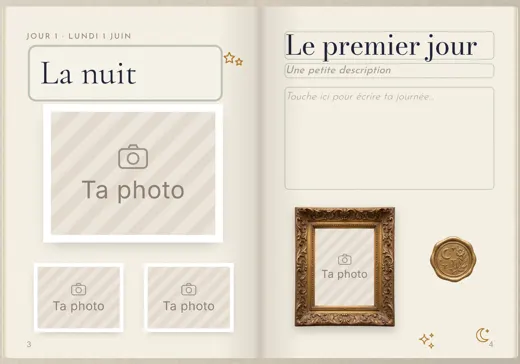
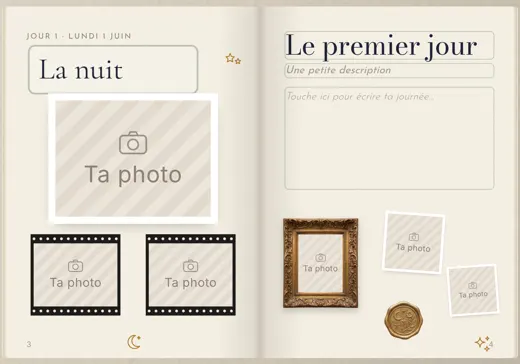
Modèles du carnet plus remplis : 12 modèles dont Mood board (9 photos) et Raisons de repartir, 4 gratuits
Claude-Session: https://claude.ai/code/session_01FgCiP2KnGwcrbVTvX2axgX

diff --git a/js/modeles.js b/js/modeles.js
@@ -17,71 +17,92 @@
   const tx = (sd, x, y, v, ph_, f, c, size = 17, w = 30, r = 0) => ({ k: 'x', v, ph: ph_, f, c, x: X(sd, x), y: Y(y), s: r1(size / 17), r, w, tpl: 1 });
 
   const MODELES = [
+    { k: 'moodboard', n: 'Mood board', pro: 0, paper: 'blanc', font: 'carnet', pal: ['#E8A9B8', '#20243A', '#FBF6EA'], el: () => [
+      tx('l', 52, 40, 'Mood board', 'Ton titre', 'carnet', '#20243A', 32, 18), dd('l', 34, 58, 'sparkles', 22, '#C26B7A'), dd('l', 268, 58, 'sparkles', 22, '#C26B7A'),
+      ...[[55, 128], [150, 128], [245, 128], [55, 222], [150, 222], [245, 222], [55, 316], [150, 316], [245, 316]].map(([x, y]) => ph('l', x, y, 84, 'carre', 'arrondi')),
+      dd('l', 150, 394, 'hearts', 28, '#C26B7A'), tp('l', 245, 84, W.rose, 46, 8),
+      ph('r', 58, 290, 82, 'portrait', 'arrondi'), ph('r', 150, 276, 82, 'carre', 'arrondi'), ph('r', 242, 290, 82, 'portrait', 'arrondi'),
+      ph('r', 150, 368, 82, 'carre', 'arrondi'), dd('r', 50, 388, 'heartf', 24, '#E8A9B8', -10), dd('r', 252, 390, 'stars', 26, '#20243A')] },
     { k: 'sauge', n: 'Sauge et crème', pro: 0, paper: 'quadrille', font: 'carnet', pal: ['#AFC3AC', '#3f5240', '#F3EBDD'], el: () => [
-      tx('l', 26, 46, 'Escapade', 'Ton titre', 'carnet', '#3f5240', 40, 17),
-      tp('l', 95, 102, W.sauge, 64, -4), ph('l', 95, 200, 128, 'portrait', 'arche'),
-      tp('l', 228, 160, W.jaune, 50, 6), ph('l', 228, 212, 78, 'carre', 'polaroid', 5),
-      lt('l', 205, 300, 'souvenirs', 'label', '#2E5E3E', -3),
-      dd('l', 42, 372, 'leaf', 40, '#6f8a6c', -12), dd('l', 258, 372, 'heart', 30, '#B8452C', 8),
-      tp('r', 150, 236, W.sauge, 70, -3), ph('r', 150, 305, 170, 'paysage', 'blanc', -1),
-      dd('r', 268, 392, 'sparkles', 30, '#B07A2A'), dd('r', 34, 392, 'hearts', 28, '#E8A9B8')] },
+      tx('l', 26, 46, 'Escapade', 'Ton titre', 'carnet', '#3f5240', 36, 16),
+      tp('l', 80, 112, W.sauge, 56, -4), ph('l', 80, 186, 108, 'portrait', 'arche'),
+      tp('l', 214, 106, W.jaune, 46, 6), ph('l', 214, 152, 78, 'carre', 'polaroid', 5),
+      ph('l', 222, 262, 72, 'carre', 'polaroid', -4), ph('l', 88, 312, 80, 'carre', 'blanc', -3),
+      lt('l', 210, 340, 'souvenirs', 'label', '#2E5E3E', -3),
+      dd('l', 36, 392, 'leaf', 32, '#6f8a6c', -12), dd('l', 160, 394, 'heart', 24, '#B8452C', 8), dd('l', 268, 390, 'sparkles', 26, '#B07A2A'),
+      tp('r', 62, 250, W.sauge, 46, -6), ph('r', 62, 304, 82, 'carre', 'polaroid', -5),
+      ph('r', 150, 296, 76, 'portrait', 'blanc'), tp('r', 238, 250, W.jaune, 46, 6), ph('r', 238, 304, 82, 'carre', 'polaroid', 5),
+      dd('r', 150, 398, 'stars', 26, '#6f8a6c'), dd('r', 40, 396, 'hearts', 22, '#E8A9B8')] },
     { k: 'bleu', n: 'Bleu Méditerranée', pro: 0, paper: 'blanc', font: 'machine', pal: ['#A9C2DA', '#3C6E8F', '#FBF6EA'], el: () => [
-      lt('l', 150, 66, 'VOYAGE', 'tile', '#20243A'),
-      tp('l', 150, 92, W.bleu, 70, -2), ph('l', 150, 170, 215, 'paysage', 'blanc', 1),
-      ph('l', 82, 322, 105, 'carre', 'blanc', -3), ph('l', 218, 326, 105, 'carre', 'blanc', 3),
-      dd('l', 150, 395, 'stars', 30, '#3C6E8F'),
-      ph('r', 82, 312, 105, 'carre', 'rond'), tp('r', 215, 240, W.sauge, 55, 6), ph('r', 215, 305, 92, 'portrait', 'polaroid', 6),
-      dd('r', 34, 396, 'sparkles', 28, '#E3A51A'), dd('r', 268, 396, 'star', 26, '#3C6E8F')] },
+      lt('l', 150, 62, 'VOYAGE', 'tile', '#20243A'),
+      tp('l', 150, 98, W.bleu, 64, -2), ph('l', 150, 160, 196, 'paysage', 'blanc', 1),
+      ph('l', 58, 288, 76, 'carre', 'blanc', -4), ph('l', 150, 296, 76, 'carre', 'blanc', 2), ph('l', 242, 288, 76, 'carre', 'blanc', 4),
+      lt('l', 150, 372, 'été', 'label', '#3C6E8F', -2), dd('l', 40, 392, 'stars', 26, '#3C6E8F'), dd('l', 262, 392, 'sparkles', 26, '#E3A51A'),
+      ph('r', 64, 300, 86, 'carre', 'rond'), tp('r', 160, 240, W.sauge, 46, 5), ph('r', 160, 290, 80, 'portrait', 'polaroid', 4),
+      ph('r', 248, 322, 66, 'carre', 'blanc', -4), dd('r', 268, 396, 'star', 24, '#3C6E8F'), dd('r', 40, 396, 'heart', 22, '#3C6E8F')] },
     { k: 'ete', n: 'Été pastel', pro: 0, paper: 'blanc', font: 'carnet', pal: ['#A9C2DA', '#F3C979', '#A9C4AF'], el: () => [
-      tx('l', 74, 44, 'Summer', 'Ton titre', 'carnet', '#2f4a66', 40, 16),
-      tp('l', 150, 118, W.jaune, 66, -3), ph('l', 150, 200, 205, 'paysage', 'blanc', -1),
-      ph('l', 150, 342, 92, 'carre', 'rond'), dd('l', 46, 350, 'sparkles', 34, '#E3A51A'), dd('l', 256, 330, 'heartf', 26, '#E8A9B8', 10),
-      tp('r', 85, 238, W.sauge, 55, -5), ph('r', 85, 305, 96, 'portrait', 'polaroid', -4),
-      tp('r', 215, 238, W.bleu, 55, 5), ph('r', 215, 305, 96, 'portrait', 'polaroid', 4),
-      dd('r', 150, 400, 'stars', 26, '#9EC3E6')] },
+      tx('l', 74, 44, 'Summer', 'Ton titre', 'carnet', '#2f4a66', 38, 16),
+      tp('l', 150, 116, W.jaune, 62, -3), ph('l', 150, 190, 190, 'paysage', 'blanc', -1),
+      ph('l', 64, 330, 78, 'carre', 'rond'), ph('l', 158, 334, 74, 'carre', 'polaroid', -4), ph('l', 246, 326, 74, 'carre', 'polaroid', 5),
+      dd('l', 40, 96, 'sparkles', 26, '#E3A51A'), dd('l', 262, 92, 'heartf', 22, '#E8A9B8', 10),
+      tp('r', 62, 246, W.sauge, 46, -5), ph('r', 62, 304, 80, 'portrait', 'polaroid', -5),
+      tp('r', 150, 236, W.bleu, 46, 3), ph('r', 150, 292, 80, 'portrait', 'polaroid', 2),
+      tp('r', 238, 246, W.jaune, 46, 5), ph('r', 238, 304, 80, 'portrait', 'polaroid', 5), dd('r', 150, 402, 'stars', 24, '#9EC3E6')] },
+    { k: 'raisons', n: 'Raisons de repartir', pro: 1, paper: 'blanc', font: 'oldmoney', pal: ['#E8A9B8', '#C26B7A', '#ffffff'], el: () => [
+      tx('l', 24, 40, 'Quatre raisons', 'Ton titre', 'oldmoney', '#2a2320', 28, 20), tx('l', 60, 78, '… de repartir', '', 'romantique', '#C26B7A', 22, 26),
+      ...[0, 1, 2, 3].flatMap(i => { const y = 150 + i * 66; return [tx('l', 20, y - 26, String(i + 1), '', 'oldmoney', '#E8A9B8', 38, 3), tx('l', 62, y - 16, '', 'ta raison…', 'carnet', '#5a4a52', 15, 20), ph('l', i % 2 ? 216 : 248, y, 62, 'carre', 'polaroid', i % 2 ? -6 : 6)]; }),
+      st('l', 34, 400, 'fl-fleur-rose', 44, -10), st('l', 150, 402, 'fl-pivoine-rose', 46), st('l', 270, 404, 'fl-cerisier', 46, 14),
+      st('r', 268, 236, 'nd2-vichy-rose', 52, 12),
+      ph('r', 58, 272, 80, 'carre', 'arrondi'), ph('r', 150, 262, 80, 'portrait', 'arrondi'), ph('r', 242, 276, 72, 'carre', 'arrondi'),
+      ph('r', 96, 362, 116, 'paysage', 'arrondi'), ph('r', 236, 360, 70, 'carre', 'arrondi'), st('r', 30, 404, 'fl-hibiscus-rouge', 46, -8)] },
     { k: 'rose', n: 'Rose poudré', pro: 1, paper: 'rose', font: 'romantique', pal: ['#E9BCC3', '#b05a6a', '#F8E7E5'], el: () => [
-      tx('l', 62, 42, 'Douceur', 'Ton titre', 'romantique', '#b05a6a', 40, 16),
-      ph('l', 150, 222, 150, 'o', 'coeur-rose'), st('l', 150, 126, 'nd-satin-rose', 70),
-      st('l', 58, 362, 'fl-cerisier', 90, -10), st('l', 246, 358, 'fl-pivoine-poudre', 78, 8),
-      tp('r', 82, 244, W.rose, 55, -6), ph('r', 82, 305, 92, 'carre', 'polaroid', -5),
-      tp('r', 216, 248, W.lilas, 55, 6), ph('r', 216, 308, 92, 'carre', 'polaroid', 5),
-      st('r', 58, 392, 'baiser-framboise', 52, -12), st('r', 248, 392, 'cire-rose-cygne', 50)] },
+      tx('l', 62, 42, 'Douceur', 'Ton titre', 'romantique', '#b05a6a', 38, 16),
+      st('l', 92, 118, 'nd-satin-rose', 58), ph('l', 92, 204, 128, 'o', 'coeur-rose'),
+      ph('l', 232, 150, 70, 'carre', 'polaroid', 6), ph('l', 228, 268, 70, 'carre', 'polaroid', -5),
+      st('l', 46, 352, 'fl-cerisier', 66, -10), st('l', 150, 372, 'fl-pivoine-poudre', 58, 6), st('l', 258, 370, 'baiser-framboise', 44, -12),
+      tp('r', 58, 246, W.rose, 44, -6), ph('r', 58, 296, 76, 'carre', 'arrondi', -3), tp('r', 150, 240, W.lilas, 44, 3), ph('r', 150, 290, 76, 'carre', 'arrondi'),
+      tp('r', 242, 246, W.rose, 44, 6), ph('r', 242, 296, 76, 'carre', 'arrondi', 3), st('r', 150, 388, 'cire-rose-cygne', 48), st('r', 50, 392, 'fl-gypsophile', 44), st('r', 254, 392, 'dentelle-rose-eventail', 80)] },
     { k: 'bordeaux', n: 'Bordeaux et or', pro: 1, paper: 'blanc', font: 'oldmoney', pal: ['#6E1F2A', '#C9A15A', '#ffffff'], el: () => [
-      ph('l', 150, 165, 190, 'o', 'bordeaux'),
-      tx('l', 52, 292, 'Souvenirs', 'Ton titre', 'oldmoney', '#6E1F2A', 40, 17),
-      tx('l', 60, 346, '', 'ton sous-titre ici', 'oldmoney', '#9a7a3a', 17, 30),
-      st('l', 150, 396, 'cire-bordeaux-rose', 46),
-      ph('r', 86, 300, 110, 'o', 'or-cadre', -3), ph('r', 216, 300, 104, 'o', 'or-ovale', 3),
-      st('r', 42, 388, 'nd2-bourgogne', 56, -8), st('r', 262, 386, 'fl-lys-bordeaux', 56, 10)] },
+      ph('l', 104, 168, 168, 'o', 'bordeaux'), ph('l', 246, 128, 72, 'o', 'or-ovale', 4), ph('l', 246, 236, 72, 'o', 'or-rond', -4),
+      tx('l', 30, 296, 'Souvenirs', 'Ton titre', 'oldmoney', '#6E1F2A', 36, 18),
+      tx('l', 36, 344, '', 'ton sous-titre ici', 'oldmoney', '#9a7a3a', 16, 30),
+      st('l', 262, 384, 'cire-bordeaux-rose', 44), st('l', 40, 392, 'nd2-bourgogne', 44, -10),
+      ph('r', 62, 300, 86, 'o', 'or-cadre', -3), ph('r', 152, 296, 82, 'o', 'argent', 2), ph('r', 242, 300, 84, 'o', 'coeur-or', 3),
+      st('r', 150, 396, 'dentelle-bordeaux-ornement', 120), st('r', 266, 390, 'fl-lys-bordeaux', 42, 10)] },
     { k: 'terracotta', n: 'Terracotta', pro: 1, paper: 'kraft', font: 'carnet', pal: ['#CDAF86', '#B8452C', '#7a3a1f'], el: () => [
-      tx('l', 26, 46, 'Évasion', 'Ton titre', 'carnet', '#7a3a1f', 40, 16),
-      ph('l', 95, 205, 130, 'portrait', 'arche'), tp('l', 232, 160, W.peche, 50, 6), ph('l', 232, 212, 78, 'carre', 'polaroid', 5),
-      st('l', 236, 300, 'nd2-vichy-terracotta', 68, -6), dd('l', 40, 372, 'sun', 36, '#B8452C'), st('l', 252, 388, 'empreinte-terracotta', 54, -10),
-      ph('r', 84, 305, 100, 'carre', 'festonne', -3), ph('r', 216, 305, 100, 'carre', 'festonne', 3),
-      lt('r', 84, 386, 'À voir', 'label', '#B8452C', -2), lt('r', 216, 386, 'À goûter', 'label', '#B07A2A', 2)] },
+      tx('l', 26, 46, 'Évasion', 'Ton titre', 'carnet', '#7a3a1f', 36, 16),
+      ph('l', 72, 180, 108, 'portrait', 'arche'), tp('l', 206, 104, W.peche, 46, 6), ph('l', 206, 150, 78, 'carre', 'polaroid', 5),
+      ph('l', 208, 262, 76, 'carre', 'festonne', -3), st('l', 96, 296, 'nd2-vichy-terracotta', 54, -6),
+      dd('l', 40, 384, 'sun', 30, '#B8452C'), st('l', 150, 388, 'empreinte-terracotta', 44, -10), dd('l', 258, 386, 'palm', 32, '#2E5E3E'),
+      ph('r', 58, 296, 78, 'carre', 'festonne', -3), ph('r', 150, 290, 78, 'carre', 'festonne', 2), ph('r', 242, 296, 78, 'carre', 'festonne', 3),
+      lt('r', 58, 370, 'À voir', 'label', '#B8452C', -2), lt('r', 150, 370, 'À goûter', 'label', '#B07A2A', 1), lt('r', 242, 370, 'À refaire', 'label', '#2E5E3E', 2)] },
     { k: 'lilas', n: 'Lilas', pro: 1, paper: 'quadrille', font: 'calligraphie', pal: ['#CDBDE3', '#4e3f68', '#C9B6E4'], el: () => [
-      lt('l', 76, 66, 'CITY', 'bead', '#4e3f68', -3), tx('l', 140, 46, 'break', 'Ton titre', 'romantique', '#6a5590', 34, 14),
-      tp('l', 100, 106, W.lilas, 60, -4), ph('l', 100, 196, 140, 'portrait', 'blanc', -2),
-      ph('l', 236, 214, 82, 'portrait', 'polaroid', 6), st('l', 236, 302, 'nd2-vichy-lilas', 68, -8), dd('l', 42, 372, 'butterfly', 34, '#8a73b8'),
-      ph('r', 84, 312, 100, 'carre', 'rond'), ph('r', 216, 310, 96, 'portrait', 'arche'),
-      st('r', 40, 388, 'fl-gypsophile', 56), st('r', 266, 388, 'fl-lys-rose', 58, 10)] },
+      lt('l', 76, 66, 'CITY', 'bead', '#4e3f68', -3), tx('l', 140, 46, 'break', 'Ton titre', 'romantique', '#6a5590', 32, 14),
+      tp('l', 86, 112, W.lilas, 52, -4), ph('l', 86, 196, 116, 'portrait', 'blanc', -2),
+      ph('l', 226, 160, 72, 'carre', 'polaroid', 6), ph('l', 226, 276, 72, 'carre', 'polaroid', -4),
+      st('l', 90, 312, 'nd2-vichy-lilas', 56, -8), dd('l', 40, 392, 'butterfly', 30, '#8a73b8'), st('l', 150, 396, 'fl-gypsophile', 44), st('l', 262, 390, 'fl-lys-rose', 46, 10),
+      ph('r', 58, 300, 78, 'carre', 'rond'), ph('r', 150, 296, 76, 'portrait', 'arche'), ph('r', 242, 300, 78, 'carre', 'rond'),
+      dd('r', 150, 400, 'sparkles', 24, '#b8a6d3'), dd('r', 40, 398, 'heart', 22, '#C26B7A')] },
     { k: 'nuit', n: 'Noir et or', pro: 1, paper: 'blanc', font: 'magazine', pal: ['#2C2B2E', '#C9A15A', '#ffffff'], el: () => [
-      tx('l', 26, 46, 'La nuit', 'Ton titre', 'magazine', '#20243A', 40, 16), dd('l', 268, 62, 'stars', 28, '#B07A2A'),
-      ph('l', 150, 198, 215, 'paysage', 'blanc'), ph('l', 86, 345, 104, 'paysage', 'blanc'), ph('l', 216, 345, 104, 'paysage', 'blanc'),
-      ph('r', 100, 308, 118, 'o', 'or-cadre'), st('r', 228, 300, 'cire-or-lune', 58),
-      dd('r', 262, 390, 'moon', 26, '#B07A2A'), dd('r', 196, 396, 'sparkles', 22, '#B07A2A')] },
+      tx('l', 26, 46, 'La nuit', 'Ton titre', 'magazine', '#20243A', 36, 16), dd('l', 268, 62, 'stars', 26, '#B07A2A'),
+      ph('l', 150, 180, 206, 'paysage', 'blanc'), ph('l', 82, 318, 112, 'paysage', 'film'), ph('l', 218, 318, 112, 'paysage', 'film'),
+      dd('l', 150, 398, 'moon', 24, '#B07A2A'),
+      ph('r', 72, 304, 96, 'o', 'or-cadre'), ph('r', 182, 280, 70, 'carre', 'blanc', 4), ph('r', 252, 336, 62, 'carre', 'blanc', -4),
+      st('r', 170, 372, 'cire-or-lune', 46), dd('r', 262, 400, 'sparkles', 22, '#B07A2A')] },
     { k: 'vintage', n: 'Vintage', pro: 1, paper: 'kraft', font: 'machine', pal: ['#CDAF86', '#3a2c1c', '#EFE4D0'], el: () => [
       lt('l', 150, 62, 'CARNET DE ROUTE', 'label', '#20243A'),
-      ph('l', 82, 150, 105, 'portrait', 'timbre', -4), ph('l', 218, 156, 105, 'portrait', 'timbre', 3),
-      st('l', 150, 232, 'cire-creme-noeud', 54), tp('l', 150, 262, W.jaune, 64, -2), ph('l', 150, 328, 215, 'paysage', 'blanc', 1),
-      tp('r', 90, 244, W.peche, 55, -5), ph('r', 90, 310, 104, 'portrait', 'polaroid', -3),
-      st('r', 226, 296, 'empreinte-prune', 58, -10), st('r', 214, 378, 'dentelle-creme-guipure', 120), dd('r', 270, 400, 'envelope', 26, '#6b5638', -6)] },
+      ph('l', 80, 152, 94, 'portrait', 'timbre', -4), ph('l', 220, 156, 94, 'portrait', 'timbre', 3),
+      st('l', 150, 232, 'cire-creme-noeud', 46), tp('l', 150, 262, W.jaune, 60, -2), ph('l', 150, 326, 200, 'paysage', 'blanc', 1),
+      tp('r', 62, 246, W.peche, 46, -5), ph('r', 62, 304, 84, 'portrait', 'polaroid', -3),
+      ph('r', 160, 292, 72, 'carre', 'timbre', 4), ph('r', 246, 314, 72, 'carre', 'timbre', -4),
+      st('r', 176, 384, 'empreinte-prune', 44, -10), st('r', 64, 396, 'dentelle-creme-guipure', 100), dd('r', 266, 400, 'envelope', 24, '#6b5638', -6)] },
     { k: 'automne', n: 'Automne', pro: 1, paper: 'ligne', font: 'carnet', pal: ['#6E1F2A', '#B07A2A', '#F3C979'], el: () => [
-      tx('l', 26, 46, 'Saison', 'Ton titre', 'carnet', '#6b3a1c', 40, 14), st('l', 258, 64, 'erable-rousse', 70, 18),
-      ph('l', 100, 205, 135, 'portrait', 'festonne', -2), tp('l', 236, 164, W.jaune, 50, 6), ph('l', 236, 216, 78, 'carre', 'polaroid', 5),
-      st('l', 232, 300, 'pomme-pin-espresso', 44, -10), st('l', 40, 372, 'erable-ambre', 50, -20), st('l', 132, 388, 'nd-satin-chocolat', 70), st('l', 252, 386, 'erable-terracotta', 50, 20),
-      tp('r', 86, 244, W.peche, 55, -4), ph('r', 86, 312, 104, 'portrait', 'blanc', -3),
-      tp('r', 216, 244, W.jaune, 55, 4), ph('r', 216, 312, 104, 'portrait', 'blanc', 3), st('r', 150, 402, 'nd2-moutarde', 58)] },
+      tx('l', 26, 46, 'Saison', 'Ton titre', 'carnet', '#6b3a1c', 36, 14), st('l', 258, 64, 'erable-rousse', 60, 18),
+      ph('l', 84, 196, 112, 'portrait', 'festonne', -2), tp('l', 222, 112, W.jaune, 44, 6), ph('l', 222, 158, 72, 'carre', 'polaroid', 5),
+      ph('l', 224, 272, 72, 'carre', 'polaroid', -4), st('l', 140, 318, 'pomme-pin-espresso', 36, -10),
+      st('l', 36, 380, 'erable-ambre', 44, -20), st('l', 140, 392, 'nd-satin-chocolat', 58), st('l', 256, 384, 'erable-terracotta', 44, 20),
+      tp('r', 58, 246, W.peche, 44, -4), ph('r', 58, 304, 78, 'portrait', 'blanc', -3), tp('r', 150, 240, W.jaune, 44, 2), ph('r', 150, 298, 78, 'portrait', 'blanc'),
+      tp('r', 242, 246, W.peche, 44, 4), ph('r', 242, 304, 78, 'portrait', 'blanc', 3), st('r', 150, 404, 'nd2-moutarde', 50)] },
   ];
   window.MODELES = MODELES;
   if (window.FP_FRAMES) { FP_FRAMES.arche = 'Arche'; FP_FRAMES.festonne = 'Festonné'; }
